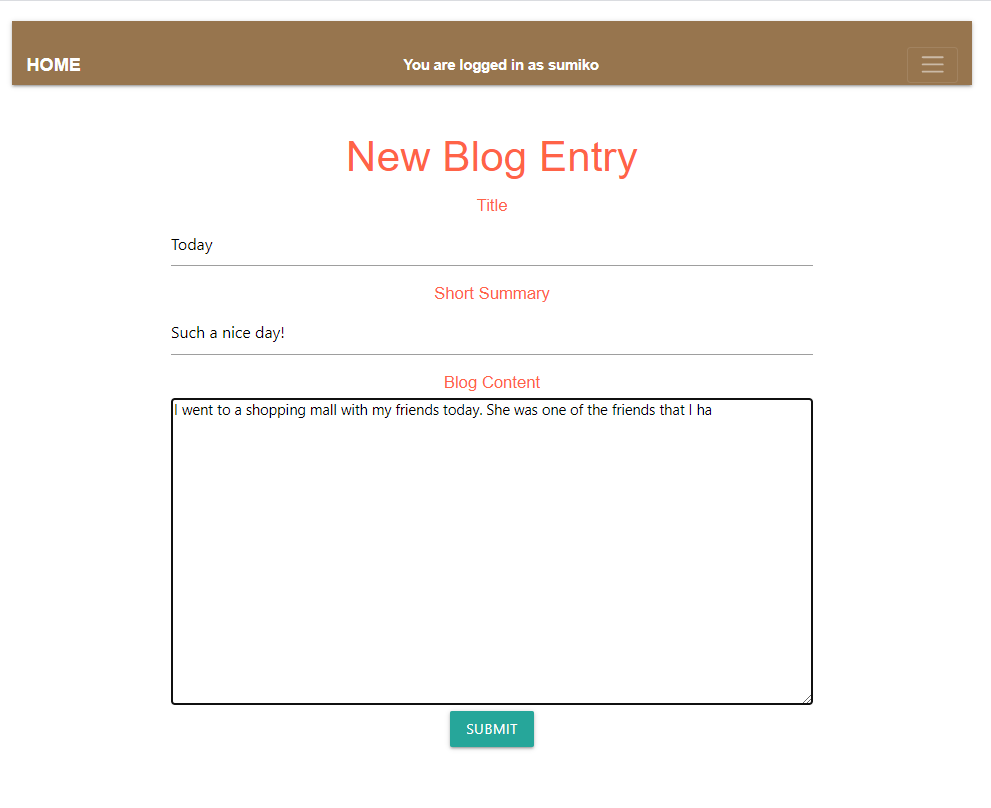
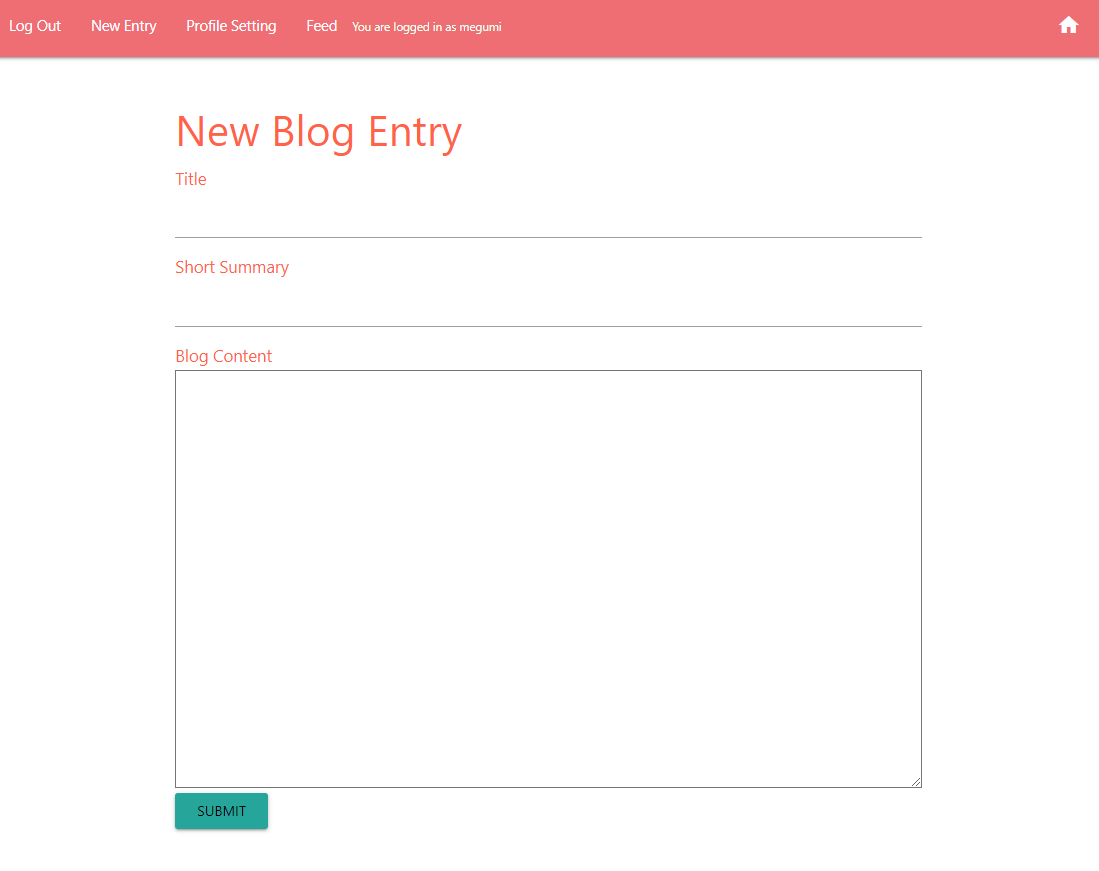
commit

diff --git a/store/templates/store/user.html b/store/templates/store/user.html
@@ -5,58 +5,75 @@
 
 
   
-  <h2 class='header1'>My Page</h2>
+  <label style="font-size: large; text-align: center;">My Page</h2>
   
-  <div>
+  <div class="container" style="width:fit-content;">
     {% for blog in blogposts %}
-    <div class="leftcolumn">
-      <div class="card">
-        <h2>{{blog.name}}</h2>
-        <h5>{{blog.date_created}}</h5>
-        
-        <p>{{blog.content}}</p>
-        <form method="POST"  action="{% url 'blog_edit' blog.id %}">
-          {% csrf_token %} 
-          <button class='btn1' value="{{blog.id}}" type="submit">Edit
+    <div class="row">
+      <div class="col s9">
+        <div class="">
 
-          </button>
-        </form>
-           
-        <a href="{% url 'delete' blog.id %}"><button class='btn1'>Delete the post</button></a>
-        
+          <h2>{{blog.name}}</h2>
+          <h5>{{blog.date_created}}</h5>
+          
+          <p>{{blog.content}}</p>
+          <form method="POST"  action="{% url 'blog_edit' blog.id %}">
+            {% csrf_token %} 
+            <button style="margin-bottom: 4px;" class="waves-effect waves-light btn" value="{{blog.id}}" type="submit">Edit
+  
+            </button>
+          </form>
+             
+          <a href="{% url 'delete' blog.id %}"><button class="waves-effect waves-light btn">Delete the post</button></a>
+          
         </div>
+
+      </div>
+      
+      <div class="col s3" >
+        <div class="collection">
+          <label style="font-size: 48px;">about me</label>
+          
+          <div class="collection-item avatar">
+            
+            
+            
+            
+            
+            <img class="circle" style="width: 47px;" src="{{user.image.url}}" >
+            <p style="font-weight: bold;">{{user.name}}</p>
+            <br>
+            <p class="title">{{user.profile}}</p>
+            <form class="" action="{% url 'profile_settings' %}">
+              <button class="waves-effect waves-light btn " >Change Profile</button> 
+            </form>
+
+          </dvi>
+          
+        </div>
+        <div class="card">
+          <label style="font-size: 40px; ">Liked Post</label>
+          {% for post in likedpost%}
+          <div>
+            
+            {{post.name}} written by <a href="{% url 'userpage' %}">{{post.user.username}}</a> 
+           
+          </div>
+          {% endfor %} 
+        </div>
+        <div class="card follow_me">
+          <label style="font-size: 40px;">Follow Me</label>
+          <p><img class="circle" style="width: 47px;" src ="/blogwebsite_var1/static/images/fb.png"><a  href="{{user.facebok}}">Facebook</a></p><p><img class="circle" style="width: 47px;" src ="/blogwebsite_var1/static/images/tw.png"><a href="{{user.twitter}}">Twitter</a></p>
+        </div>
+      </div>
+      
 
        
     </div>
     {% endfor %} 
     
      
-    <div >
-      <div class="card">
-        <h2 style="display: inline">About Me</h2><span>{{user.name}}</span>
-        <form action="{% url 'profile_settings' %}">
-          <button class="btn1">Change Profile</button> 
-        </form>
-        
-        <div class="" >
-          <img class='pr_img' src="{{user.image.url}}" ></div>
-        <p style="text-align: center;">{{user.profile}}</p>
-      </div>
-      <div class="card">
-        <h3>Liked Post</h3>
-        {% for post in likedpost%}
-        <div>
-          
-          {{post.name}} by <a href="{% url 'userpage' %}">{{post.user.username}}</a> 
-         
-        </div>
-        {% endfor %} 
-      </div>
-      <div class="card follow_me">
-        <h3>Follow Me</h3>
-        <p><img class="icon_foto" src ="/blogwebsite_var1/static/images/fb.png"><a href="{{user.facebok}}">Facebook</a></p><p><img class="icon_foto" src ="/blogwebsite_var1/static/images/tw.png"><a href="{{user.twitter}}">Twitter</a></p>
-      </div>
-    </div>
+    
   </div>
 
 

diff --git a/store/templates/store/store.html b/store/templates/store/store.html
@@ -7,15 +7,17 @@
     {% for blog in blogposts %}
     
 
-    <div class="row" style="background-color: darkcyan">
+    <div class="row" style="background-color:gainsboro">
         <div class="col s12" >
             <ul class="collection blue-grey darken-1">
-                <li class="collection-item avatar" style="background-color: darkcyan">
+                <li class="collection-item avatar" style="background-color:whitesmoke">
                     <img class="circle"  src="{{blog.user.customer.image.url}}" >
-                    <span class="title">{{blog.name}}</span>
+                    <span style="font-weight: bold;" class="title">{{blog.name}}</span>
+                    <br/>
+                    <br/>
                     <p class="title">{{blog.content}}</p>
                     <p>
-                        <form method="POST" action="{% url 'comment' %}">
+                        <form style="margin:auto; width: 180px;" method="POST" action="{% url 'comment' %}">
                             {% csrf_token%}
                             <div >
 
@@ -23,12 +25,12 @@
                             <button style="margin-bottom: 4px;" class="waves-effect waves-light btn" type="submit" name='blog_id' value="{{blog.id}}">Leave comment</button>
                         </form>
                         
-                        <form action="{% url 'likes' %}" method="POST">
+                        <form style="margin:auto; width: 180px;" action="{% url 'likes' %}" method="POST">
                             {% csrf_token%}
                             {% if blog.is_liked %}
-                                <button class="waves-effect waves-light btn" type="submit"name='blog_id' value='{{blog.id}}'><img  id="heart" src="{% static 'images/liked.png' %}">Liked</button>
+                                <button class="waves-effect waves-light btn"  type="submit"name='blog_id' value='{{blog.id}}'><img style="width: 36px;"  src="{% static 'images/liked.png' %}">Liked</button>
                             {% else %}
-                                <button class="btn-floating btn-large waves-effect waves-light red" type="submit"name='blog_id' value='{{blog.id}}'><img  id="heart" src="{% static 'images/heart.png' %}">like?</button>
+                                <button  class="waves-effect waves-light btn" type="submit"name='blog_id' value='{{blog.id}}'><img style="width: 36px;height: 30px;"  id="heart" src="{% static 'images/heart.png' %}">like?</button>
                             {% endif %}
             
                         </form>

diff --git a/store/templates/store/main.html b/store/templates/store/main.html
@@ -11,6 +11,7 @@
 
 	<link rel="stylesheet" type="text/css" href="{% static '/css/main.css' %}">
 	<link rel="stylesheet" href="https://cdnjs.cloudflare.com/ajax/libs/materialize/1.0.0/css/materialize.min.css">
+	<link href="https://fonts.googleapis.com/icon?family=Material+Icons" rel="stylesheet">
 
 	<script type="text/javascript">
 		var user = '{{request.user}}'
@@ -68,7 +69,7 @@
 
 	<nav>
 		<div class="nav-wrapper">
-		  <a href="{% url 'userpage' %}" class="brand-logo right">Home</a>
+		  <a href="{% url 'userpage' %}" class="brand-logo right"><i class="material-icons">home</i></a>
 		  <label style="color: honeydew;">You are logged in as {{user.username}}</label>
 		  <ul id="nav-mobile" class="left hide-on-med-and-down">
 			<li><a href="sass.html">Log Out</a></li>
@@ -93,7 +94,7 @@
 	<script src="https://cdn.jsdelivr.net/npm/popper.js@1.16.0/dist/umd/popper.min.js" integrity="sha384-Q6E9RHvbIyZFJoft+2mJbHaEWldlvI9IOYy5n3zV9zzTtmI3UksdQRVvoxMfooAo" crossorigin="anonymous"></script>
 
 	<script src="https://stackpath.bootstrapcdn.com/bootstrap/4.4.1/js/bootstrap.min.js" integrity="sha384-wfSDF2E50Y2D1uUdj0O3uMBJnjuUD4Ih7YwaYd1iqfktj0Uod8GCExl3Og8ifwB6" crossorigin="anonymous"></script>
-
+	<script src="https://cdnjs.cloudflare.com/ajax/libs/materialize/1.0.0/js/materialize.min.js"></script>
 	
 </body>
 </html>
